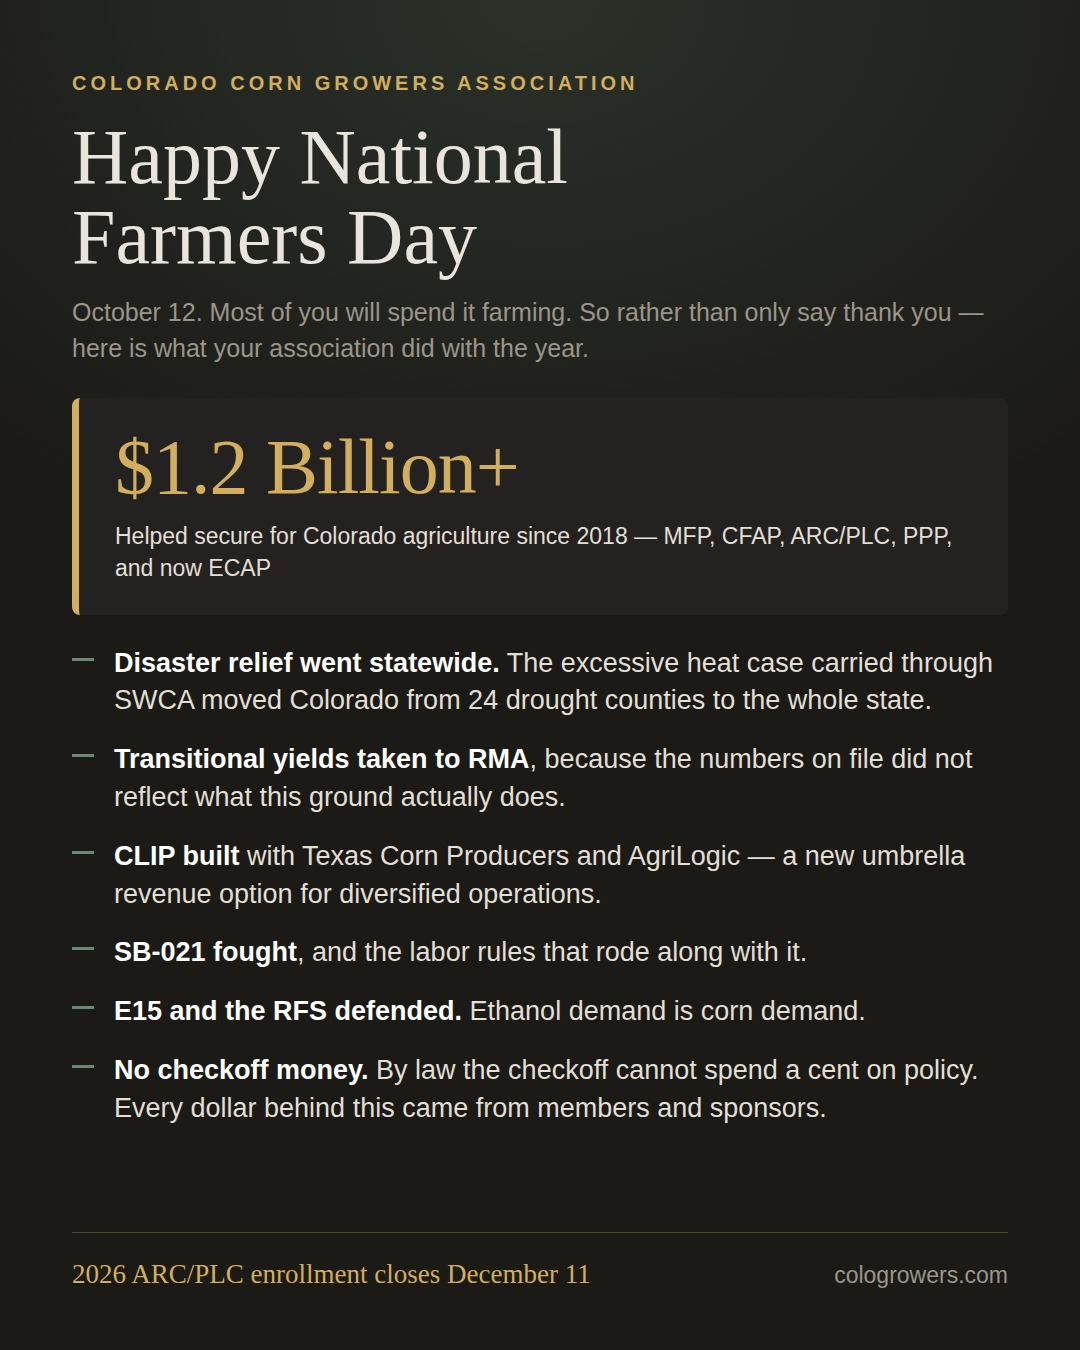
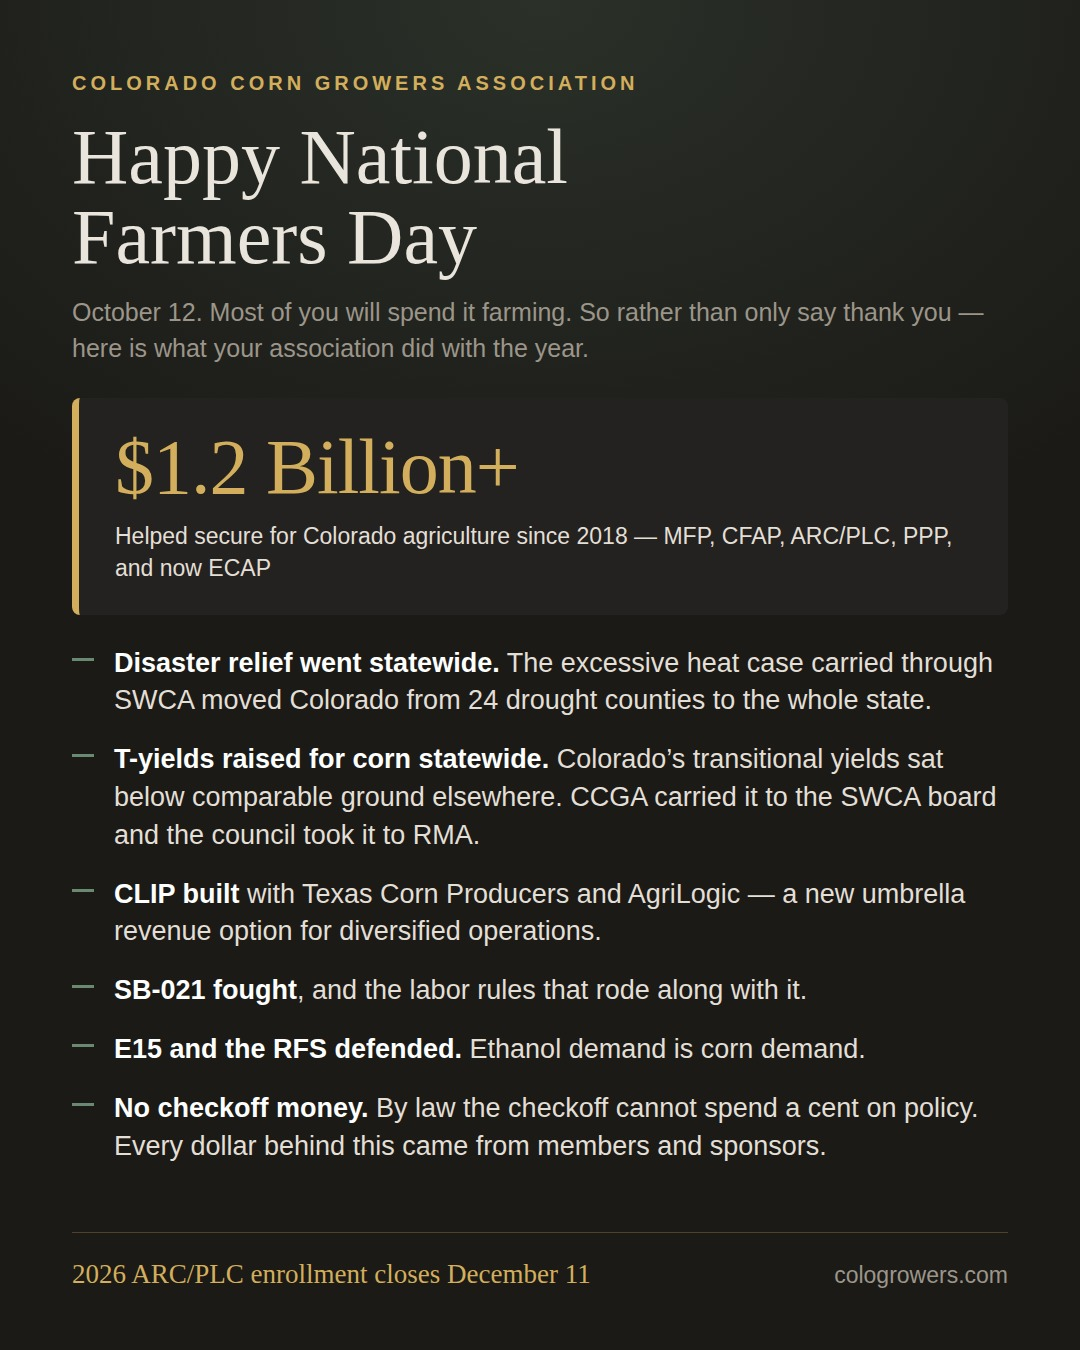
Correct the T-yield scope: the adjustment reached Colorado corn statewide
The site described the RMA transitional yield adjustment as "exactly the
kind of county-level technical fix that never happens," with Yuma
County's numbers as the illustration. That understated it. The
adjustment applied to corn across Colorado, not to one county.

Three pages carried the old framing:

- swca-affiliation.html called it county-level. It now says the numbers
  moved for corn across Colorado, and the Yuma figures (43 to 60
  nonirrigated, 204 to 210 irrigated) are kept as one county's share of
  a statewide adjustment rather than as the whole of it.
- announcements.html summarised it as "moved nonirrigated corn in Yuma
  County," which read as the entire result.
- swca-2026-annual-meeting.html mentioned the adjustment without saying
  what it covered.

The "progress, not victory" paragraph stands — several eastern Colorado
counties still carried disparities afterward, which is compatible with a
statewide raise and is worth keeping honest.

Also updates the National Farmers Day graphic to match.

Claude-Session: https://claude.ai/code/session_01Ltjyq6qjLPhZYbxoQTjL9j

Changed region(s): [[0.0917, 0.5289, 0.9167, 0.8711]]

diff --git a/Pages/announcements.html b/Pages/announcements.html
@@ -352,7 +352,7 @@
                 <time>September 25, 2026</time>
                 <h2><a href="swca-affiliation.html">Why CCGA Belongs to SWCA</a></h2>
                 <p>Colorado plants 1.46 million acres of corn against a national crop of roughly 90 million, and sends 8 members to a House of 435. That arithmetic is the whole reason this association pays dues to a five-state council. Together, Texas, Oklahoma, Kansas, New Mexico and Colorado hold 58 House seats and 10 Senate seats &mdash; and share the heat, the drought and the dryland acres the Corn Belt does not.</p>
-                <p>What the affiliation has actually delivered, with the receipts: the T-yield adjustments CCGA carried to the SWCA board and the council took to RMA, which moved nonirrigated corn in Yuma County from 43 bushels to 60; and the excessive heat case that took Colorado&rsquo;s disaster eligibility from 24 drought counties to statewide.</p>
+                <p>What the affiliation has actually delivered, with the receipts: the T-yield adjustments CCGA carried to the SWCA board and the council took to RMA, which raised transitional yields for corn across Colorado &mdash; nonirrigated corn in Yuma County alone went from 43 bushels to 60; and the excessive heat case that took Colorado&rsquo;s disaster eligibility from 24 drought counties to statewide.</p>
                 <a class="read-more" href="swca-affiliation.html">Alone we are a rounding error &rarr;</a>
             </article>
 

diff --git a/Pages/swca-affiliation.html b/Pages/swca-affiliation.html
@@ -399,9 +399,11 @@
             below comparable corn ground in other states &mdash; a disparity that made insurance
             worth less here for the same crop and the same risk. CCGA carried the problem to the SWCA
             board, and the council&rsquo;s Washington representation took it to the Risk Management
-            Agency directly. The numbers moved. In Yuma County, nonirrigated corn went from a T-yield
-            of <strong>43 bushels to 60</strong>, and irrigated from 204 to 210. This is exactly the
-            kind of county-level technical fix that never happens because somebody sent a letter.</p>
+            Agency directly. The numbers moved, and they moved for <strong>corn across
+            Colorado</strong> &mdash; not for one county. To put a size on it, nonirrigated corn in
+            Yuma County went from a T-yield of <strong>43 bushels to 60</strong>, and irrigated from
+            204 to 210. That is one county&rsquo;s share of a statewide adjustment, and it is exactly
+            the kind of technical fix that never happens because somebody sent a letter.</p>
 
         <p>It is worth saying plainly that the work was not finished. Several eastern Colorado
             counties were still carrying large disparities against comparable ground elsewhere after

diff --git a/Pages/swca-2026-annual-meeting.html b/Pages/swca-2026-annual-meeting.html
@@ -716,7 +716,7 @@
             counties can do so because of that argument.</p>
         <p>It is not the only time. CCGA also carried Colorado&rsquo;s crop insurance T-yield
             disparity to the SWCA board, and the council&rsquo;s Washington representation took it to
-            RMA directly.</p>
+            RMA directly. That adjustment reached corn statewide.</p>
         <p><a href="swca-affiliation.html">Why CCGA belongs to SWCA &rarr;</a><br>
             <a href="fall-2026-deadlines.html">What is on the line in the next five days &rarr;</a></p>
 
